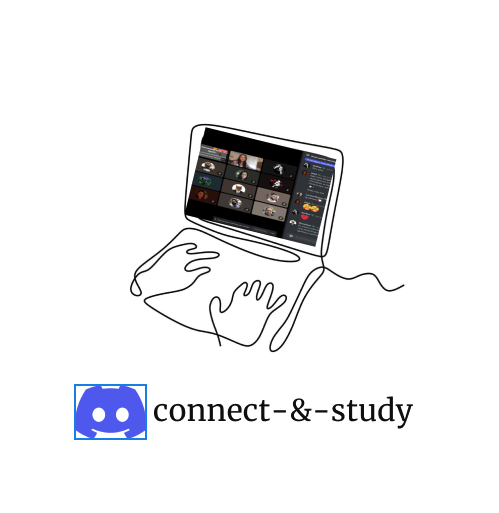
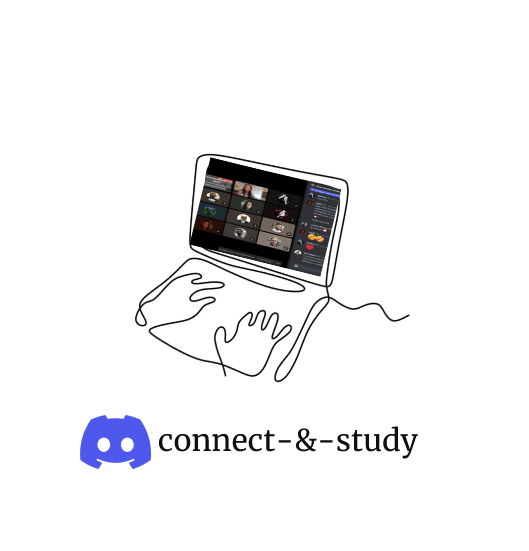
update ninas

Changed region(s): [[0.2405, 0.2183, 0.7816, 0.7173], [0.1503, 0.7485, 0.8417, 0.8733]]

diff --git a/index.html b/index.html
@@ -137,7 +137,7 @@
 
             <p class="hero-text">
               We’re are a creative company that connect and support girls
-              who are studying in areas related to technology that have a mission to hel and influence gilrs do work in
+              who are studying in areas related to technology that have a mission to help and influence girls do work in
               the technology field.
             </p>
 
@@ -168,13 +168,13 @@
 
                   <div class="hero-card">
                     <figure class="img-holder" style="--width: 575; --height: 550;">
-                      <img src="/Users/gabisousa/Documents/Ninastech-site/assets/images/connect.png" width="575" height="550" alt="hero banner"
+                      <img src="/Users/gabisousa/Documents/Ninastech-site/assets/images/desenho1.jpeg" width="575" height="550" alt="hero banner"
                         class="img-cover">
                     </figure>
 
-                    <button class="play-btn" aria-label="play adex intro">
+                    <!-- <button class="play-btn" aria-label="play adex intro">
                       <ion-icon name="play" aria-hidden="true"></ion-icon>
-                    </button>
+                    </button> -->
                   </div>
 
                 </li>
@@ -189,7 +189,7 @@
                 <li class="slider-item">
 
                   <figure class="img-holder" style="--width: 575; --height: 550;">
-                    <img src="/Users/gabisousa/Documents/Ninastech-site/assets/images/ninastechteam.png" width="575" height="550" alt="" class="img-cover">
+                    <img src="/Users/gabisousa/Documents/Ninastech-site/assets/images/ninastechteamm.png" width="575" height="550" alt="" class="img-cover">
                   </figure>
 
                 </li>
@@ -197,6 +197,13 @@
 
                   <figure class="img-holder" style="--width: 575; --height: 550;">
                     <img src="/Users/gabisousa/Documents/Ninastech-site/assets/images/work.png" width="575" height="550" alt="" class="img-cover">
+                  </figure>
+
+                </li>
+                <li class="slider-item">
+
+                  <figure class="img-holder" style="--width: 575; --height: 550;">
+                    <img src="/Users/gabisousa/Documents/Ninastech-site/assets/images/connect.png" width="575" height="550" alt="" class="img-cover">
                   </figure>
 
                 </li>
@@ -234,7 +241,7 @@
               <div class="service-card">
 
                 <div class="card-icon">
-                  <ion-icon name="cloud-download-outline" aria-hidden="true"></ion-icon>
+                  <ion-icon name="shield-checkmark-outline" aria-hidden="true"></ion-icon>
                 </div>
 
                 <h3 class="h4 card-title">Web Developer Course</h3>
@@ -259,10 +266,94 @@
                   <ion-icon name="shield-checkmark-outline" aria-hidden="true"></ion-icon>
                 </div>
 
-                <h3 class="h4 card-title">Mental-health</h3>
+                <h3 class="h4 card-title">Mental Health</h3>
 
                 <p class="card-text">
                 We also offer psychological support for working with technology.It is not enough to have knowledge or ability to learn programming, you need resilience, perseverance and believing in yourself.
+                </p>
+
+                <a href="#" class="btn-text">
+                  <span class="span">Learn More</span>
+
+                  <ion-icon name="arrow-forward-outline" aria-hidden="true"></ion-icon>
+                </a>
+
+              </div>
+            </li>
+            <li>
+              <div class="service-card">
+
+                <div class="card-icon">
+                  <ion-icon name="shield-checkmark-outline" aria-hidden="true"></ion-icon>
+                </div>
+
+                <h3 class="h4 card-title">Social Media Course</h3>
+
+                <p class="card-text">
+                  Growth and your career by learning how to: build an effective social media strategy, set up social listening and moderation, create social content, extend your reach, digital advertising, and more.
+                </p>
+
+                <a href="#" class="btn-text">
+                  <span class="span">Learn More</span>
+
+                  <ion-icon name="arrow-forward-outline" aria-hidden="true"></ion-icon>
+                </a>
+
+              </div>
+            </li>
+            <li>
+              <div class="service-card">
+
+                <div class="card-icon">
+                  <ion-icon name="shield-checkmark-outline" aria-hidden="true"></ion-icon>
+                </div>
+
+                <h3 class="h4 card-title">Book Club</h3>
+
+                <p class="card-text">
+                 In book-club, is the read and discuss book group for ninas. Everyone is welcome to join in the book discussion! Bookenders will meet at discord.
+                </p>
+
+                <a href="#" class="btn-text">
+                  <span class="span">Learn More</span>
+
+                  <ion-icon name="arrow-forward-outline" aria-hidden="true"></ion-icon>
+                </a>
+
+              </div>
+            </li>
+            <li>
+              <div class="service-card">
+
+                <div class="card-icon">
+                  <ion-icon name="shield-checkmark-outline" aria-hidden="true"></ion-icon>
+                </div>
+
+                <h3 class="h4 card-title">Code Challenges</h3>
+
+                <p class="card-text">
+                  The coding challenges in this chanell at discord that are intended for ninas, therefore the solutions are usualy implemented using only simpleclassical programming elements. 
+                </p>
+
+                <a href="#" class="btn-text">
+                  <span class="span">Learn More</span>
+
+                  <ion-icon name="arrow-forward-outline" aria-hidden="true"></ion-icon>
+                </a>
+
+              </div>
+            </li>
+            <li>
+              <div class="service-card">
+
+                <div class="card-icon">
+                  <ion-icon name="shield-checkmark-outline" aria-hidden="true"></ion-icon>
+                </div>
+
+                <h3 class="h4 card-title">Create Your Business Website</h3>
+
+                <p class="card-text">
+                  Ninastech wants that you achieve your independence being as a programmer, or working for your own business. If you have an idea or project, we will help you and teach you how to build.
                 </p>
 
                 <a href="#" class="btn-text">
@@ -278,7 +369,7 @@
               <div class="service-card">
 
                 <div class="card-icon">
-                  <ion-icon name="call-outline" aria-hidden="true"></ion-icon>
+                  <ion-icon name="shield-checkmark-outline" aria-hidden="true"></ion-icon>
                 </div>
 
                 <h3 class="h4 card-title">NinasTalk</h3>
@@ -300,7 +391,7 @@
               <div class="service-card">
 
                 <div class="card-icon">
-                  <ion-icon name="pie-chart-outline" aria-hidden="true"></ion-icon>
+                  <ion-icon name="shield-checkmark-outline" aria-hidden="true"></ion-icon>
                 </div>
 
                 <h3 class="h4 card-title">English Speakers</h3>
@@ -417,6 +508,120 @@
           </h2>
 
           <ul class="grid-list">
+            <li>
+              <div class="project-card">
+
+                <figure class="card-banner img-holder" style="--width: 560; --height: 350;">
+                  <img src="./assets/images/blog-1.jpg" width="560" height="350" loading="lazy"
+                    alt="Ligula tristique quis risus" class="img-cover">
+                </figure>
+
+                <div class="card-content">
+
+                  <h3 class="h3">
+                    <a href="#" class="card-title">Giselly Rocha</a>
+                  </h3>
+
+                  <p class="card-text">
+                    Software Engineer Front End and Content Creator of NinasTech.
+                  </p>
+
+                  <ul class="card-meta-list">
+
+                    <li class="card-meta-item">
+                      <ion-icon name="calendar-outline" aria-hidden="true"></ion-icon>
+
+                      <time class="meta-text" datetime="2022-04-14">Github</time>
+                    </li>
+
+                    <li class="card-meta-item">
+                      <ion-icon name="document-text-outline" aria-hidden="true"></ion-icon>
+
+                      <span class="meta-text">Linkedin</span>
+                    </li>
+
+                  </ul>
+
+                </div>
+
+              </div>
+            </li>
+            <li>
+              <div class="project-card">
+
+                <figure class="card-banner img-holder" style="--width: 560; --height: 350;">
+                  <img src="./assets/images/blog-1.jpg" width="560" height="350" loading="lazy"
+                    alt="Ligula tristique quis risus" class="img-cover">
+                </figure>
+
+                <div class="card-content">
+
+                  <h3 class="h3">
+                    <a href="#" class="card-title">Giselly Rocha</a>
+                  </h3>
+
+                  <p class="card-text">
+                    Software Engineer Front End and Content Creator of NinasTech.
+                  </p>
+
+                  <ul class="card-meta-list">
+
+                    <li class="card-meta-item">
+                      <ion-icon name="calendar-outline" aria-hidden="true"></ion-icon>
+
+                      <time class="meta-text" datetime="2022-04-14">Github</time>
+                    </li>
+
+                    <li class="card-meta-item">
+                      <ion-icon name="document-text-outline" aria-hidden="true"></ion-icon>
+
+                      <span class="meta-text">Linkedin</span>
+                    </li>
+
+                  </ul>
+
+                </div>
+
+              </div>
+            </li>
+            <li>
+              <div class="project-card">
+
+                <figure class="card-banner img-holder" style="--width: 560; --height: 350;">
+                  <img src="./assets/images/blog-1.jpg" width="560" height="350" loading="lazy"
+                    alt="Ligula tristique quis risus" class="img-cover">
+                </figure>
+
+                <div class="card-content">
+
+                  <h3 class="h3">
+                    <a href="#" class="card-title">Giselly Rocha</a>
+                  </h3>
+
+                  <p class="card-text">
+                    Software Engineer Front End and Content Creator of NinasTech.
+                  </p>
+
+                  <ul class="card-meta-list">
+
+                    <li class="card-meta-item">
+                      <ion-icon name="calendar-outline" aria-hidden="true"></ion-icon>
+
+                      <time class="meta-text" datetime="2022-04-14">Github</time>
+                    </li>
+
+                    <li class="card-meta-item">
+                      <ion-icon name="document-text-outline" aria-hidden="true"></ion-icon>
+
+                      <span class="meta-text">Linkedin</span>
+                    </li>
+
+                  </ul>
+
+                </div>
+
+              </div>
+            </li>
 
             <li>
               <div class="project-card">

diff --git a/assets/css/style.css b/assets/css/style.css
@@ -5,8 +5,8 @@
 /* COLORS */
 
   --pink-nina: rgb(255, 27, 80);
-  --pink-nina1: rgb(255, 44, 90);
-  --pink-nina2: rgb(118, 3, 38);
+  --pink-nina1: rgb(160, 158, 158);
+  --pink-nina2: rgb(80, 78, 79);
   --pink-nina3: rgb(228, 148, 166);
   --pink-nina4: rgb(152, 0, 58);
   --dark-cornflower-blue_a7: hsla(214, 88%, 27%, 0.07);
@@ -24,6 +24,7 @@
   --blue-crayola: rgb(239, 3, 57);
   --black-coral: rgb(240, 35, 83);
   --pink-nina10: rgb(255, 29, 78);
+  --pink-nina11: rgb(255, 44, 90);
 
   /**
    * typography
@@ -175,7 +176,7 @@ body.nav-active { overflow: hidden; }
   background-repeat: no-repeat;
   background-position: center;
   background-size: cover;
-  background: linear-gradient(110deg, var(--pink-nina2) 10%,var(--pink-nina4)50%, var(--pink-nina1) 80%);
+  background: linear-gradient(110deg, var(--pink-nina2) 20%, var(--pink-nina1) 80%);
 }
 
 .h1,
